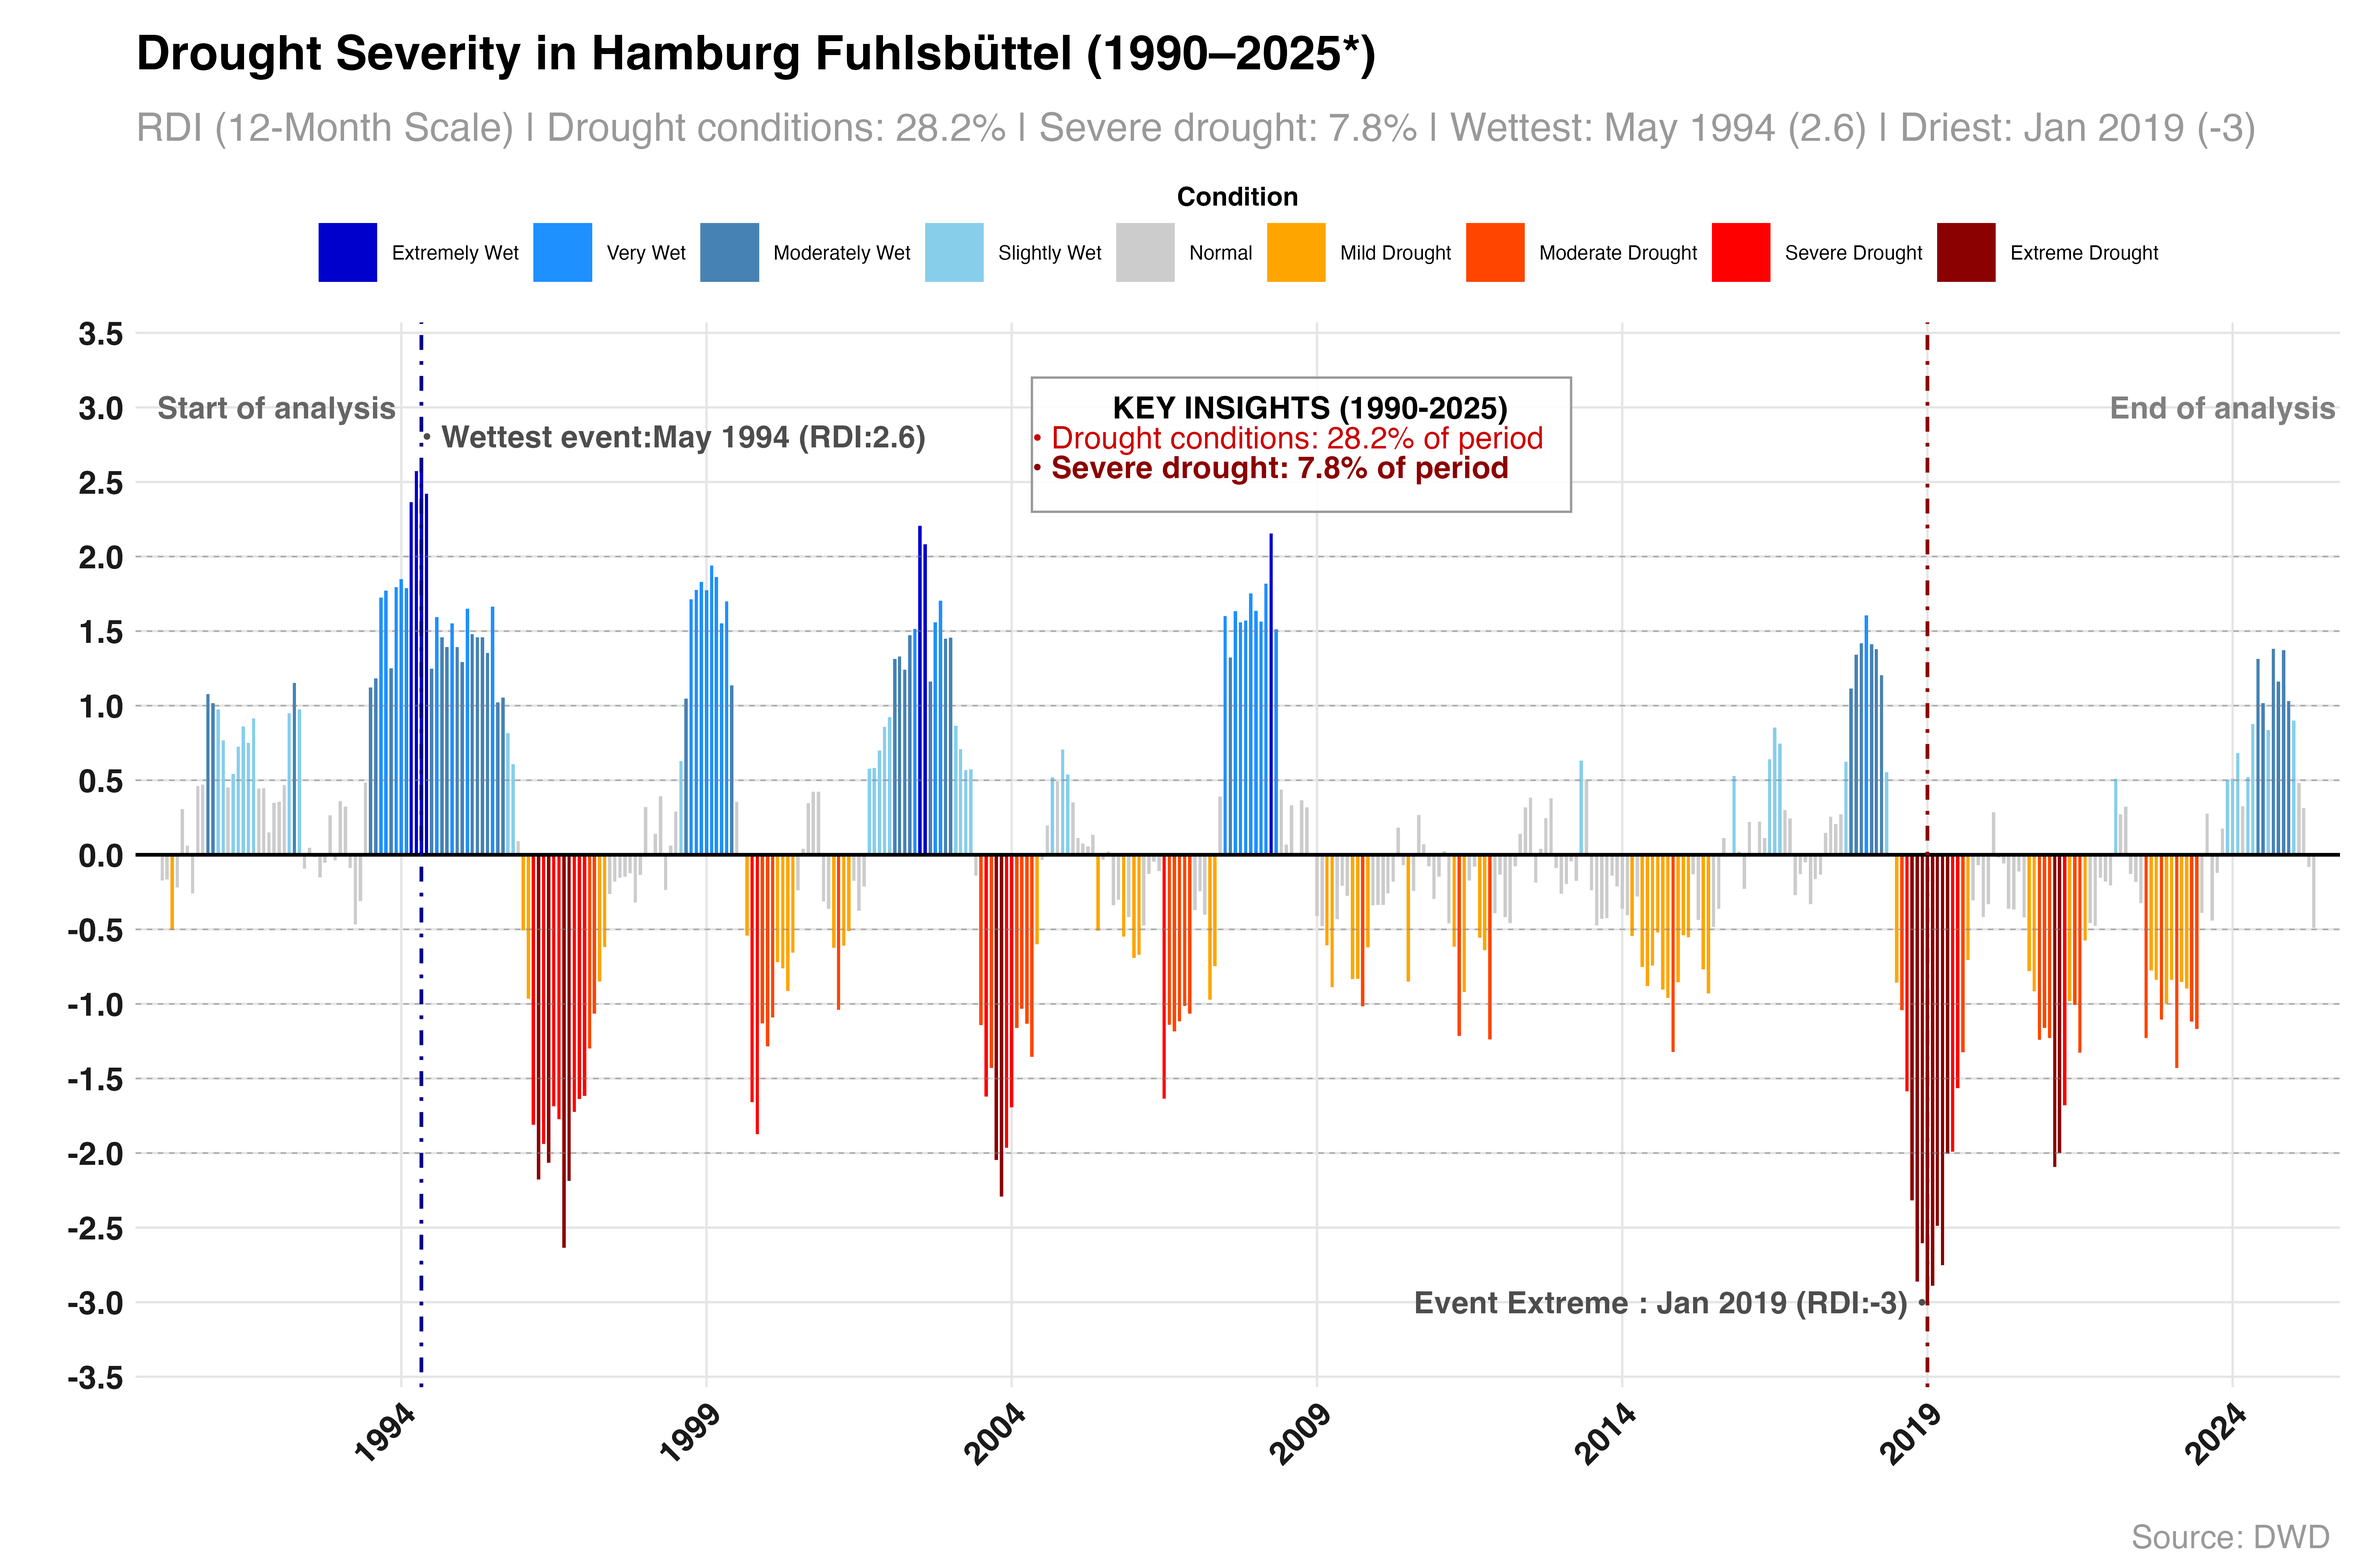
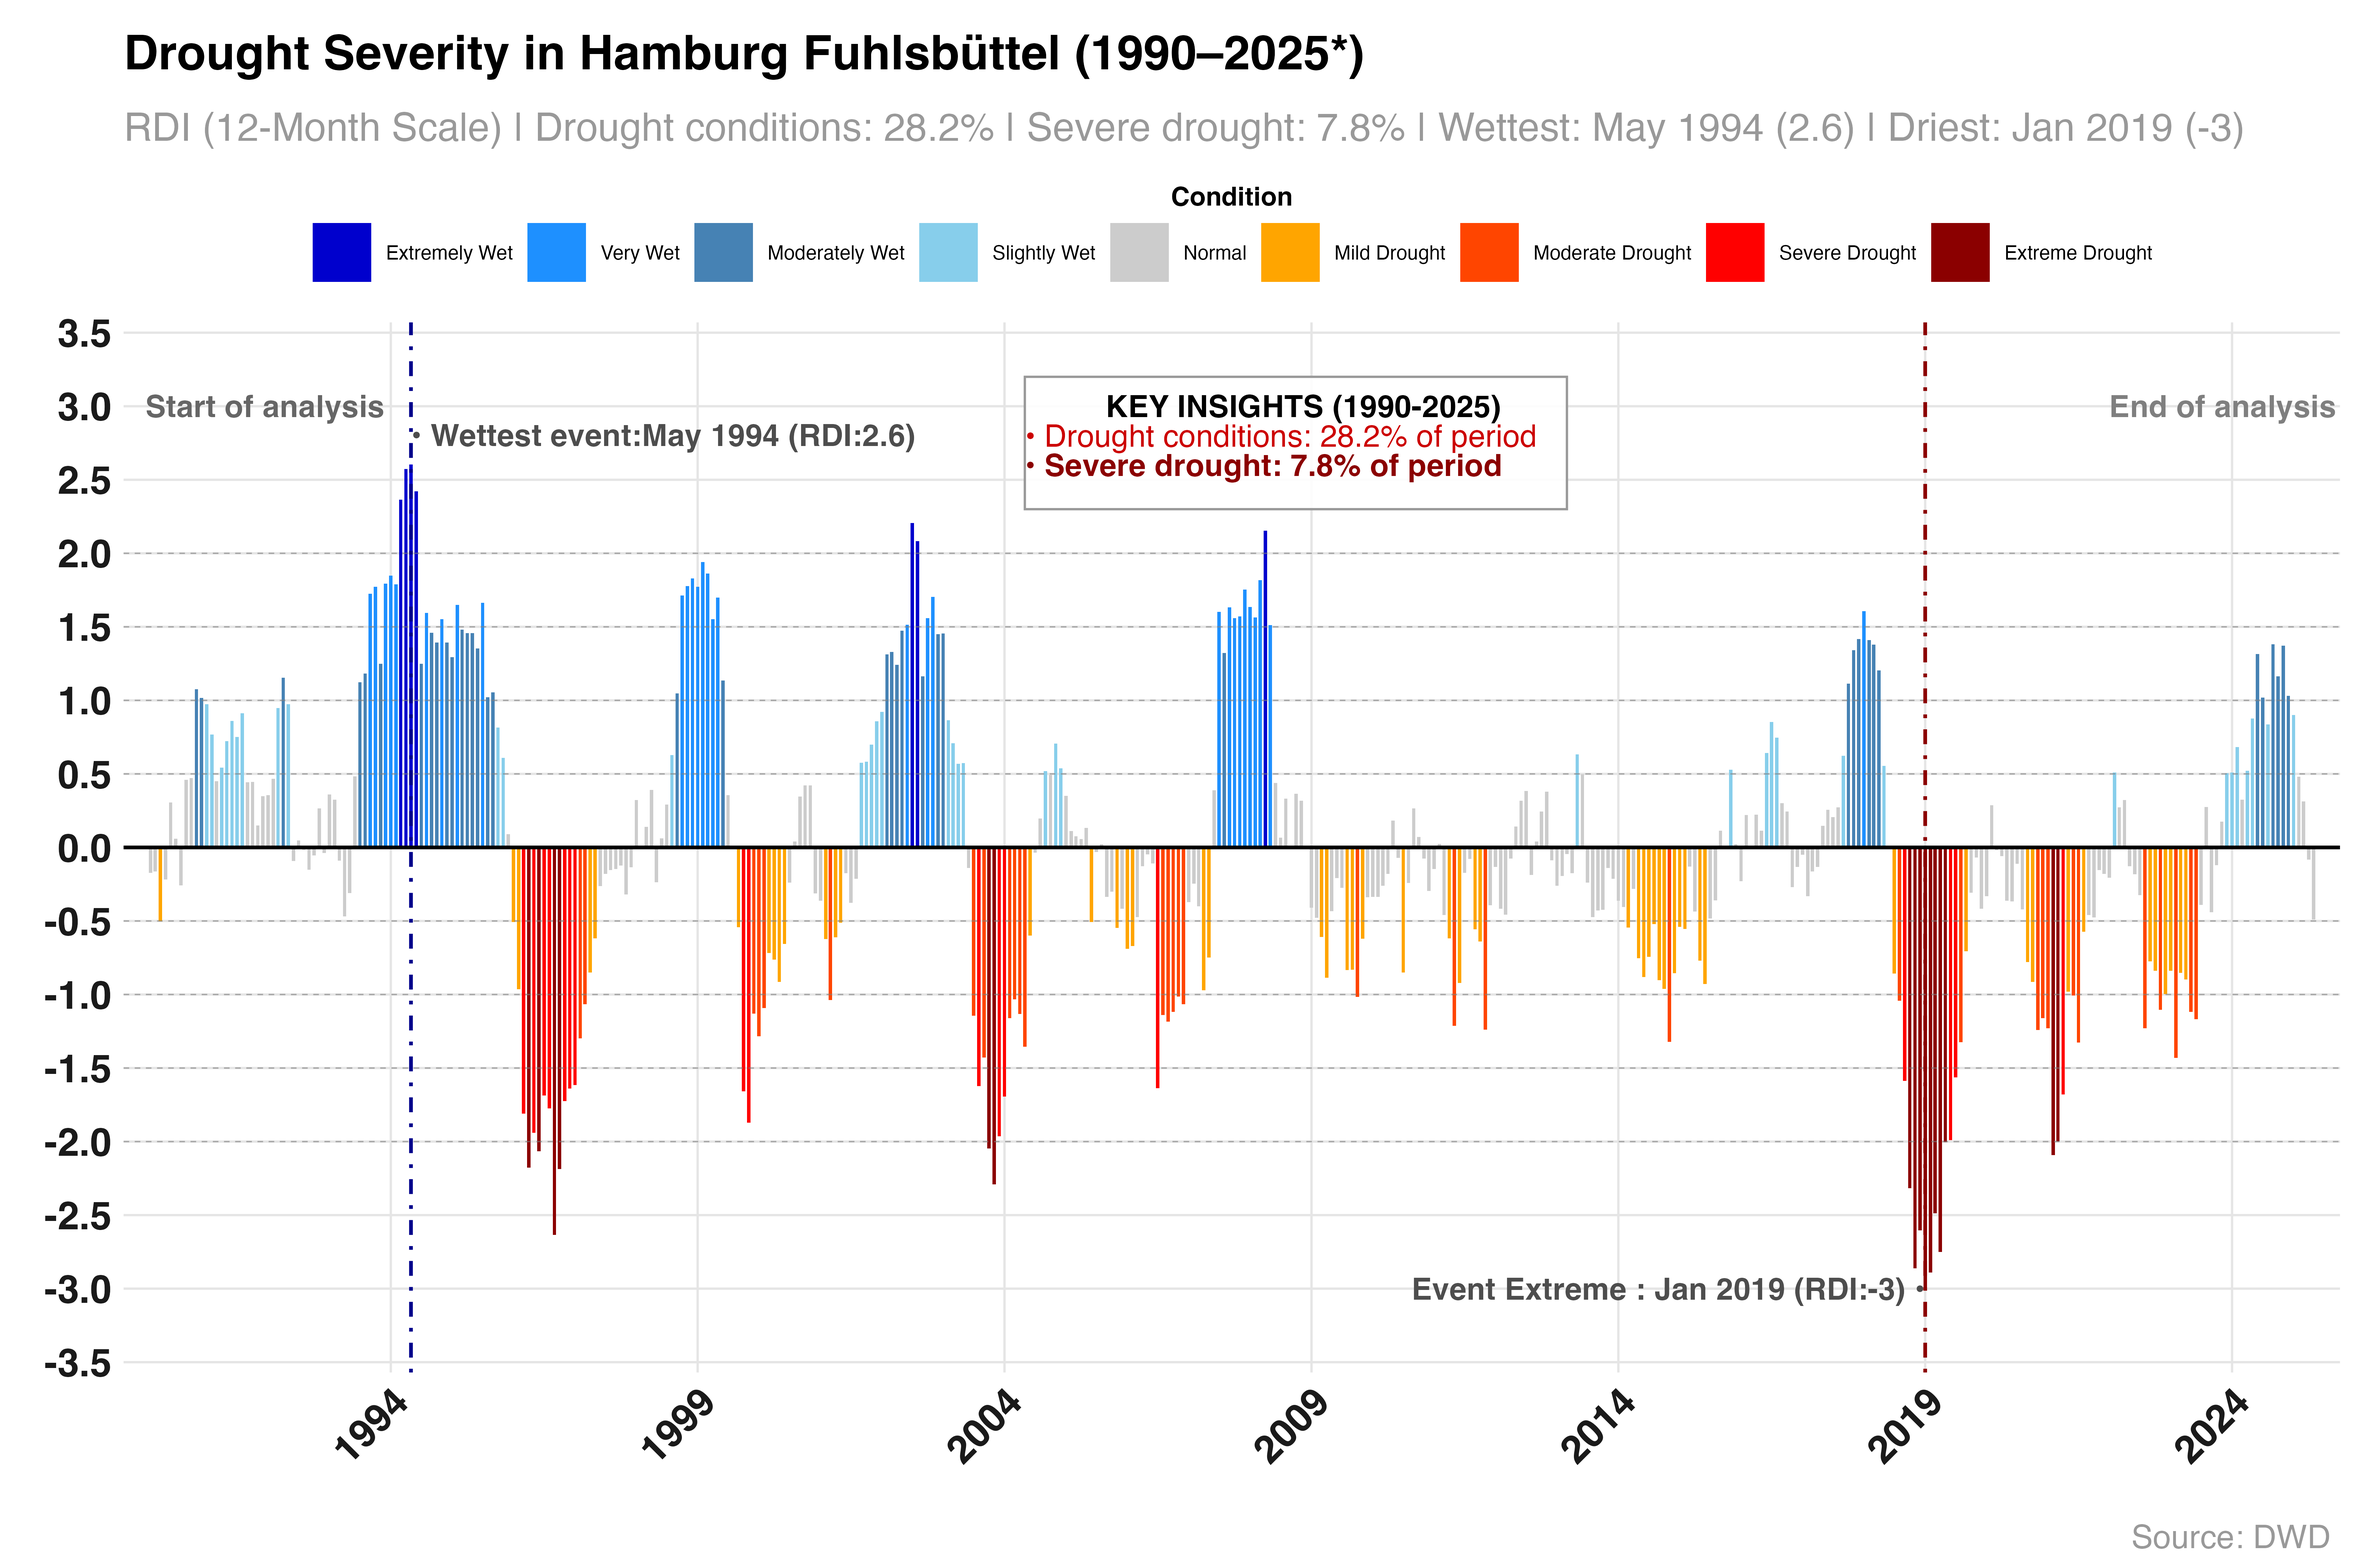
updating

diff --git a/DWD_Folder/Tables/RDI_Summary_Table.tex b/DWD_Folder/Tables/RDI_Summary_Table.tex
@@ -1,0 +1,18 @@
+\begin{table}
+
+\caption{Comparative Summary of RDI Indices (1990–2025)}
+\centering
+\begin{tabular}[t]{l|l|l|l|l|l|l}
+\hline
+RDI Scale & Drought (\%) & Severe Drought (\%) & Wettest Event & Driest Event & Kendall’s Tau & Trend Significance\\
+\hline
+12-Month & 28.2\% & 7.8\% & May 1994 (2.6) & Jan 2019 (-3.0) & -0.163 & ✓\\
+\hline
+24-Month & 37.6\% & 4.7\% & May 1995 (3.0) & Jan 2020 (-2.4) & -0.282 & ✓\\
+\hline
+36-Month & 37.2\% & 6.1\% & Jun 1995 (2.7) & Jan 2021 (-2.9) & -0.438 & ✓✓\\
+\hline
+48-Month & 36.9\% & 8.2\% & Apr 1995 (2.7) & Jan 2022 (-2.7) & -0.563 & ✓✓✓\\
+\hline
+\end{tabular}
+\end{table}
